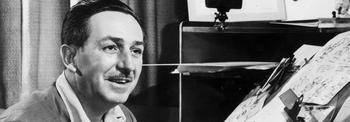
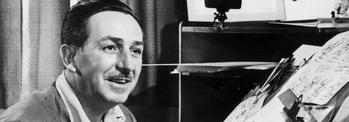
Updated config file, added hero image, changed content

diff --git a/index.html b/index.html
@@ -4,6 +4,9 @@ title: The Jackson School Journal of International Studies
 ---
 
 <section class="section--first section--frontpage">
+  <div class="section-backgroundImage">
+      <img class="post-featuredImage" src="{{ site.hero_image | prepend: site.baseurl_featured_img | prepend: site.github.url }}" style="top: -450px;">
+  </div>
   <div class="section-title">
     <div class="container">
       <h1 class="textLogo textLogo--frontpage">{{ site.name }}</h1>
